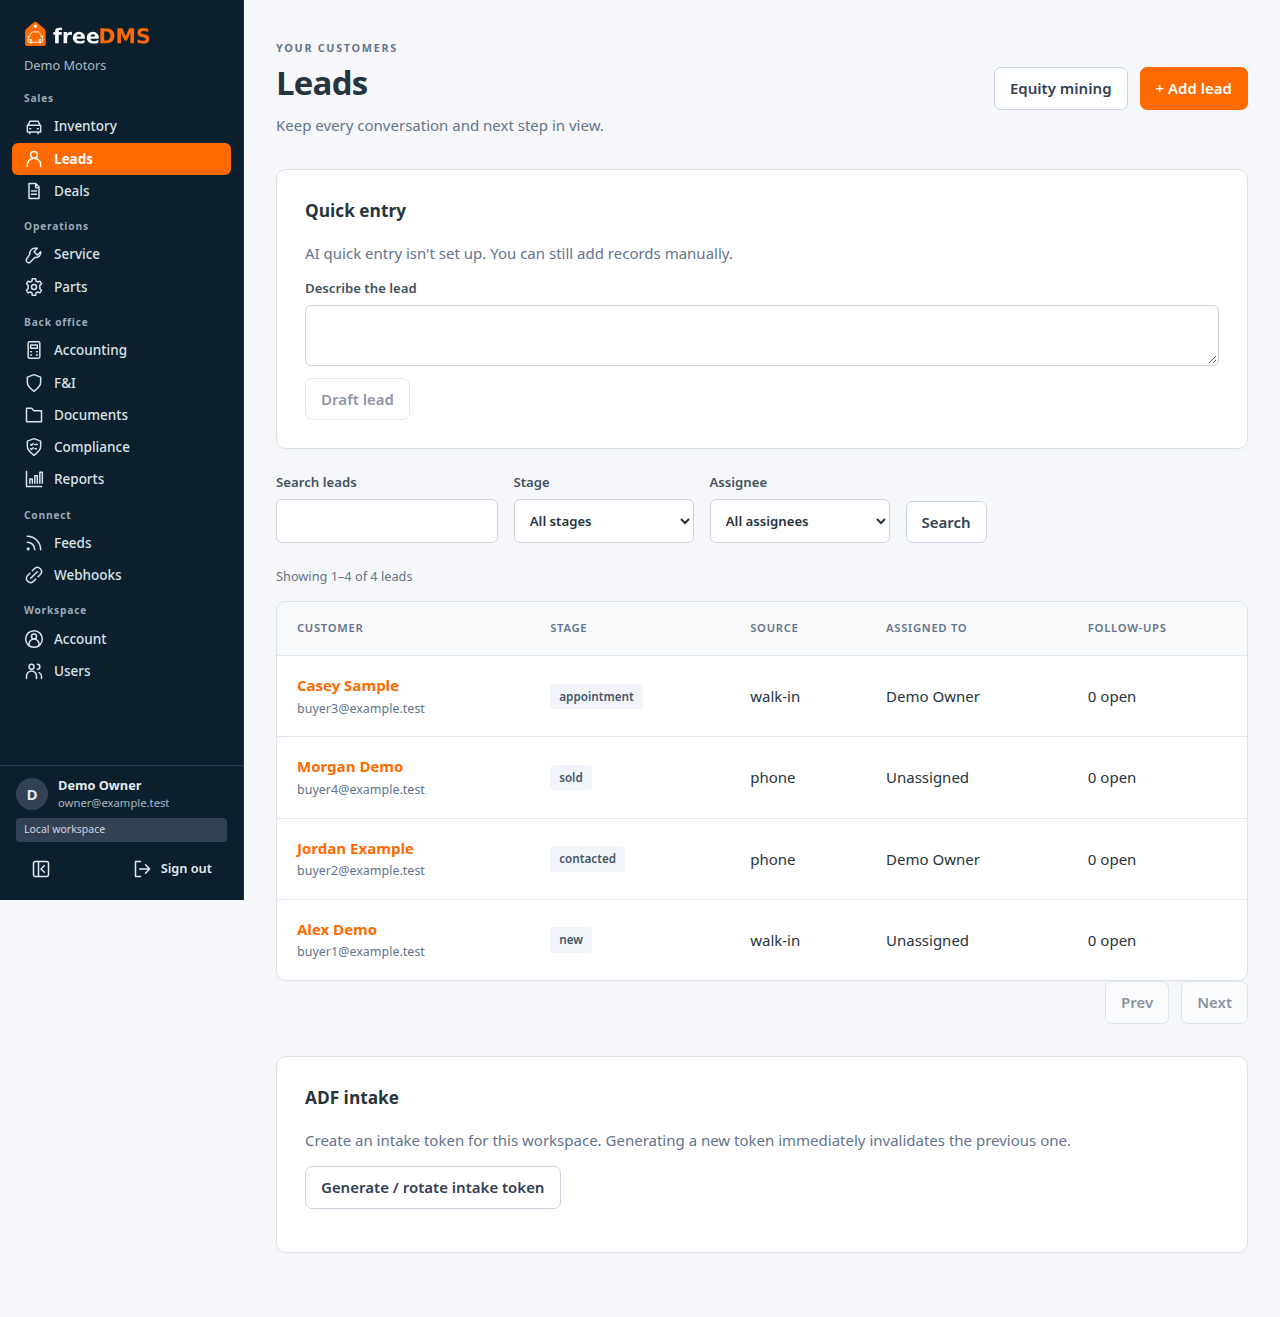
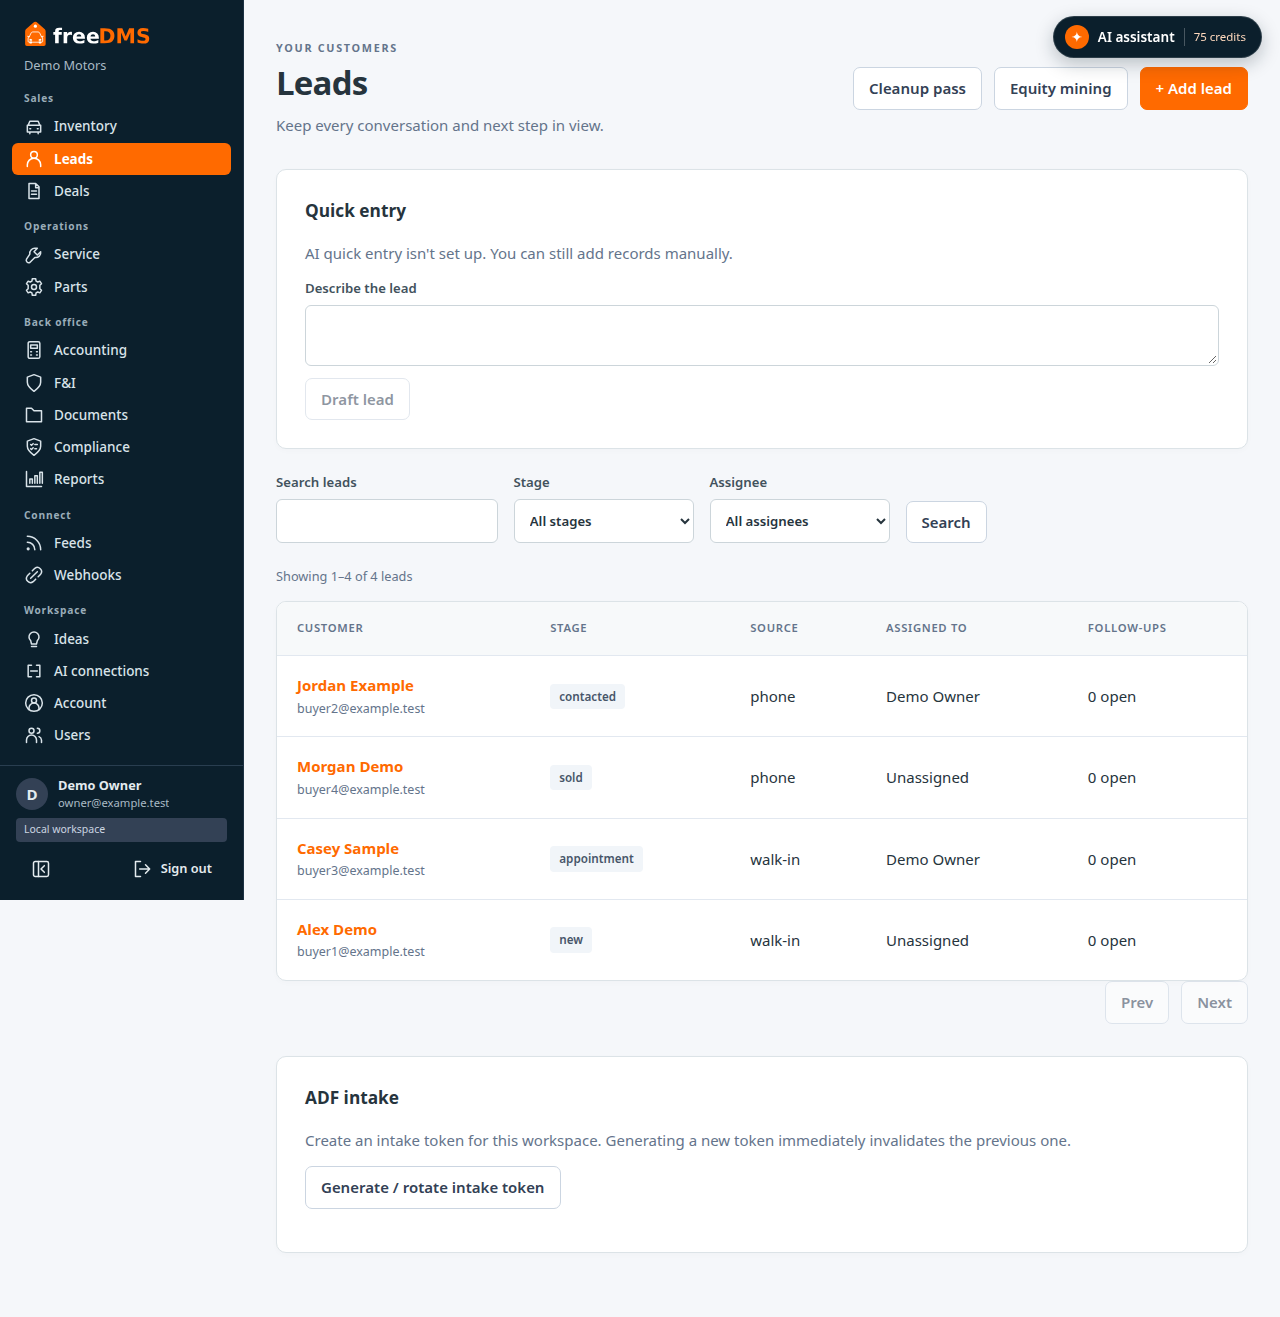
Refresh README captures for assistant skills (#104)

diff --git a/README.md b/README.md
@@ -61,6 +61,14 @@ it is not a live model response.
 Run `node --import tsx packages/web/test/assistant-tour.mjs` for the empty,
 conversation, paywall, disabled, exhausted, unconfigured, and mobile states.
 
+The assistant also knows the page you are on. On a vehicle, lead, or contact
+page the tray offers that record's skills as chips with the credit cost shown
+before anything runs: summaries of the record, and cleanup that proposes each
+change first — nothing writes until you accept it, and merge proposals are
+flagged for a person, never run.
+
+![AI assistant vehicle summary skill with cost chip and receipt](docs/screenshots/ai-assistant-skills.png)
+
 **AI assistant admin**
 
 Admins manage the plan, credits, usage, and dealership switch. Billing uses Stripe
